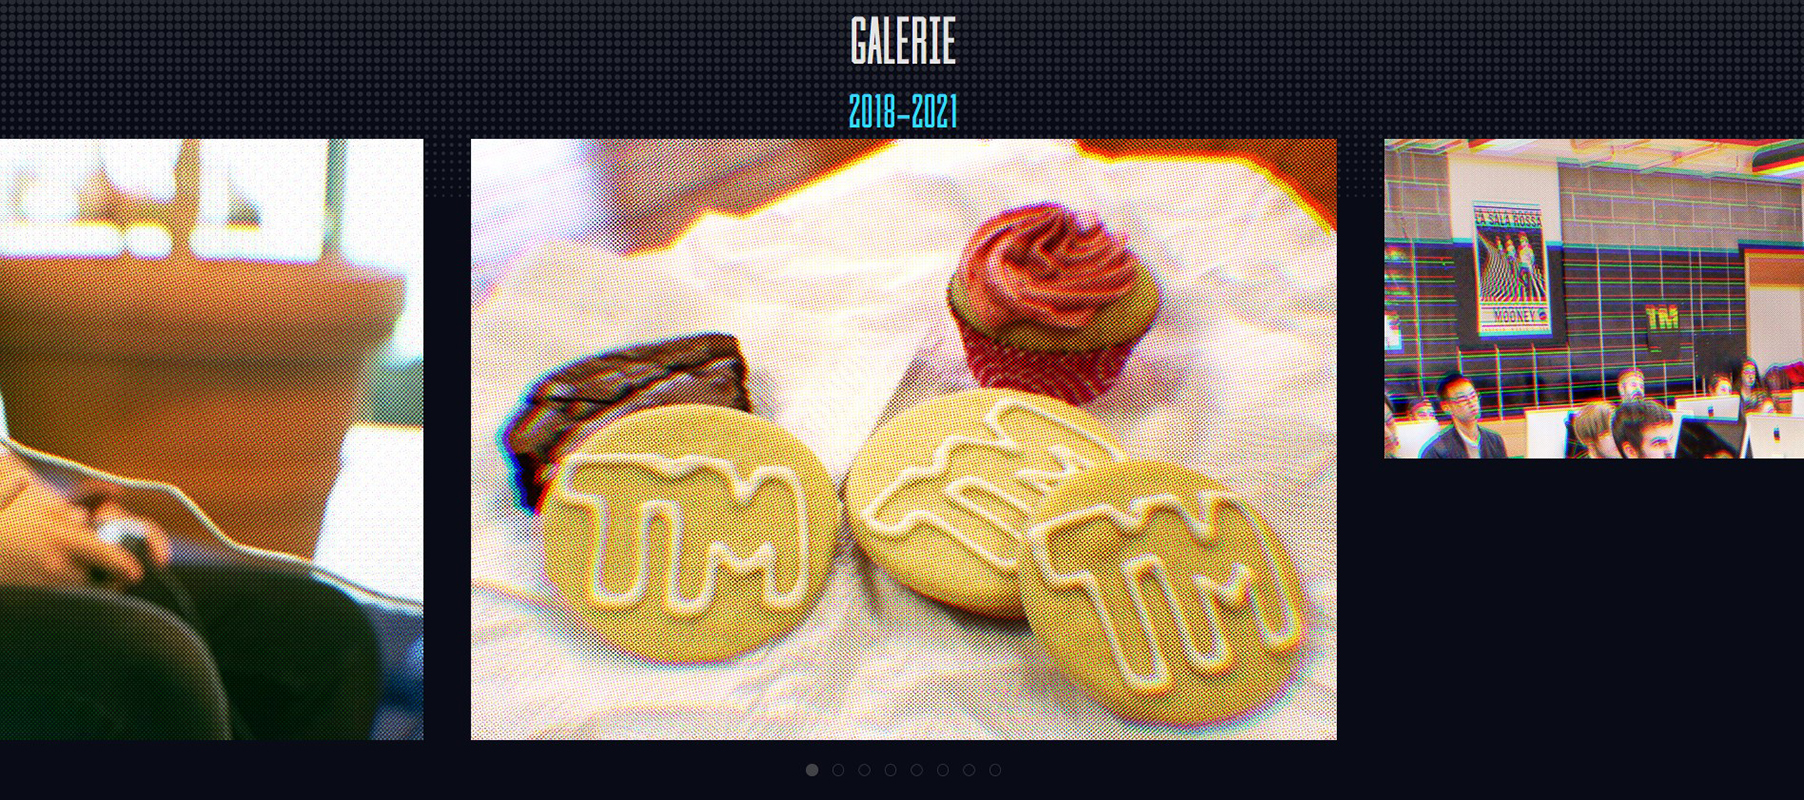
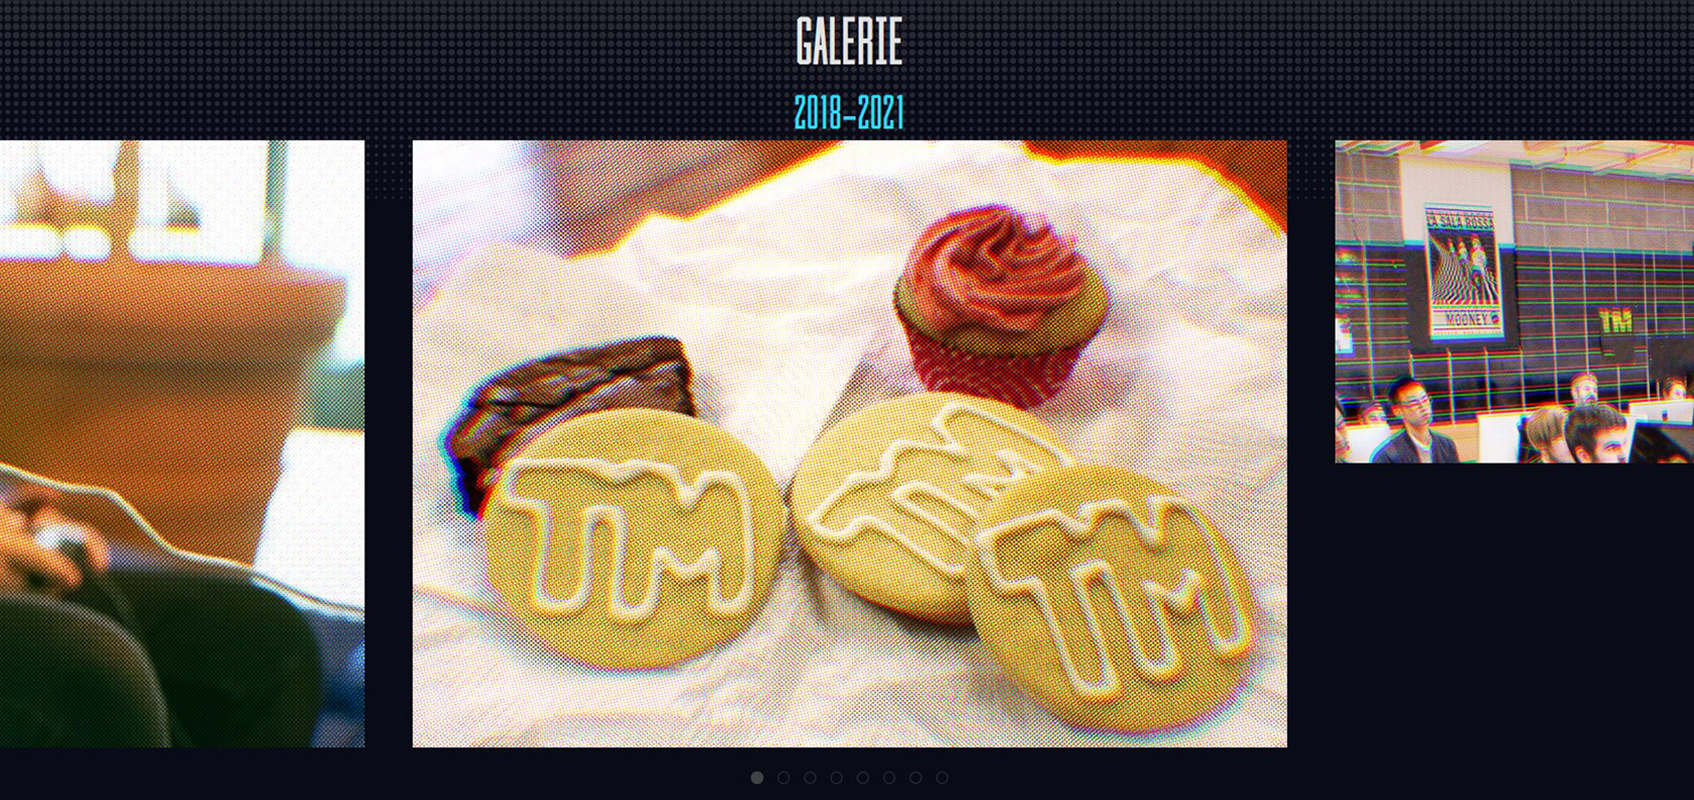
description 1

diff --git a/src/views/Projets.vue b/src/views/Projets.vue
@@ -9,14 +9,16 @@
           <Slide v-for="slide in images" :key="slide.id">
             <div class="carousel__item"><img class="carousel_img" :src="slide" alt=""></div>
           </Slide>
-          <template #addons>
+          <template #addons >
             <Navigation />
           </template>
         </Carousel>
 
-        <DescProjet class="description" />
+        <DescProjet class="description" :indexProjet="indexProjet" />
         <ListeProjets class="liste" 
-                      @choixCourant="choixCourant" />
+                      @choixCourant="choixCourant"
+                       />
+                      
   </section>
 </template>
 
@@ -46,12 +48,15 @@
       data() {
         return {
           images: imgProjets[0].src,
+          indexProjet: 0
         }
       },
 
       methods: {
         choixCourant(choixCourant) {
-          this.images = imgProjets[choixCourant].src
+          this.images = imgProjets[choixCourant].src;
+          this.indexProjet = choixCourant;
+          
         }
       }
     }
@@ -85,16 +90,14 @@
     grid-area: description;
   }
 
+  .carousel__viewport {
+  }
+
   .carousel__item {
-    width: 100%;
-    height: 100%;
-    padding: 20px 50px 20px 50px;
   }
 
   .carousel_img {
-    width: 100%;
-    height: 100%;
-    object-fit: cover;
+    padding: 15px;
   }
 
   .carousel__prev,

diff --git a/src/components/DescProjet.vue b/src/components/DescProjet.vue
@@ -4,14 +4,26 @@
     class="flex border-black border-t-4 tracking-widest text-lg p-6 z-20 bg-white"
   >
     <p
-      >Aucun projet n'a été intégré pour le moment. La section CONTACT et +INFOS
-      ne fonctionnent pas encore. Désolé pour la pauvreté du contenu.</p
+      >{{descProjet[indexProjet].description}}</p
     >
   </article>
 </template>
 
 <script>
-export default {
-  name: "DescProjet",
-};
+  import imgProjets from '../assets/data/imgProjets.json';
+
+
+  export default {
+    name: "DescProjet",
+
+    data() {
+      return{
+        descProjet: imgProjets
+      }
+    },
+
+    props: {
+      indexProjet: Number,
+    },
+  };
 </script>
